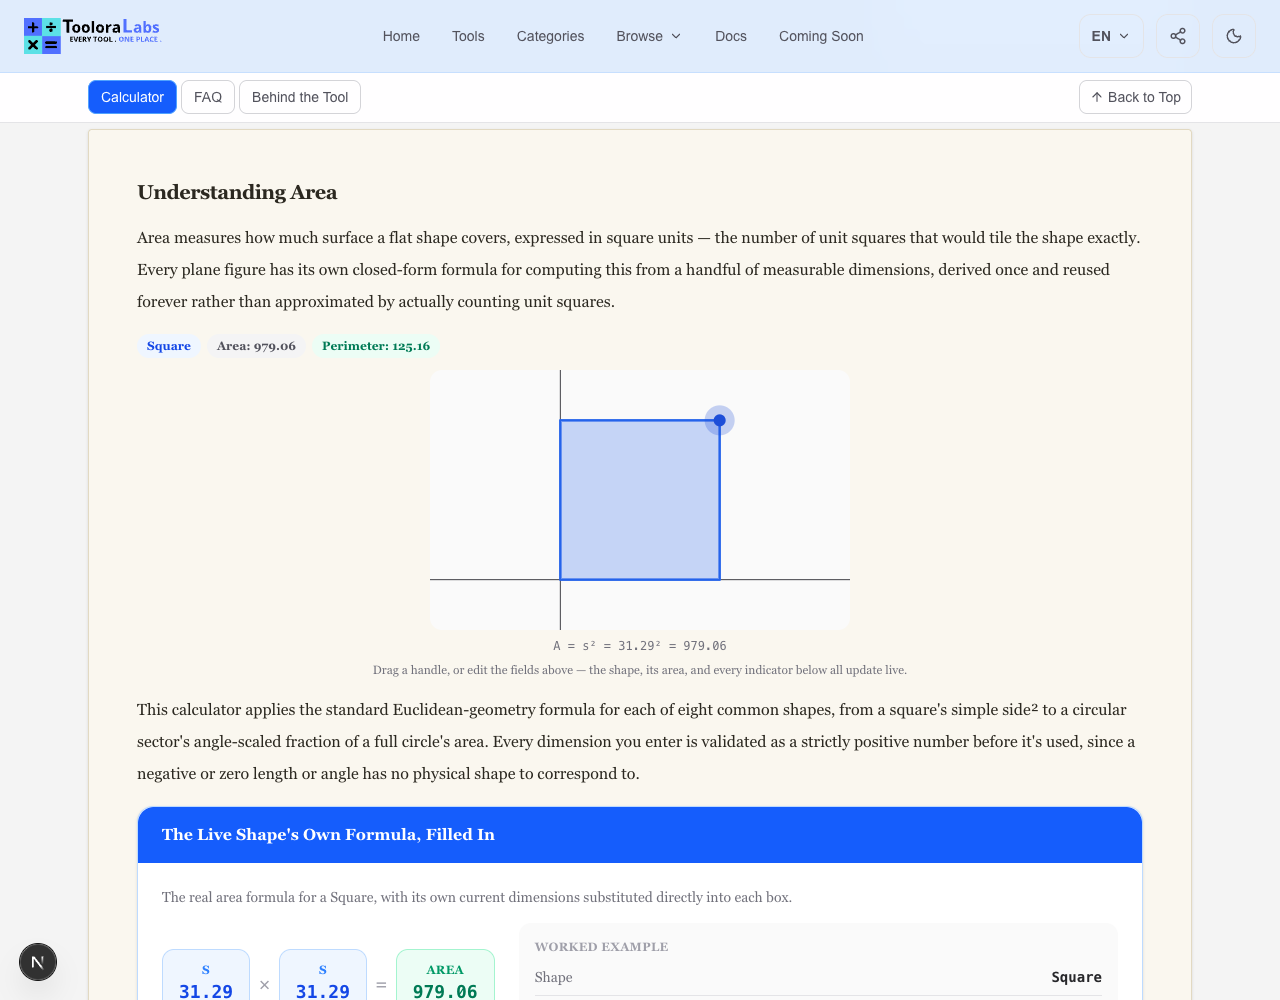
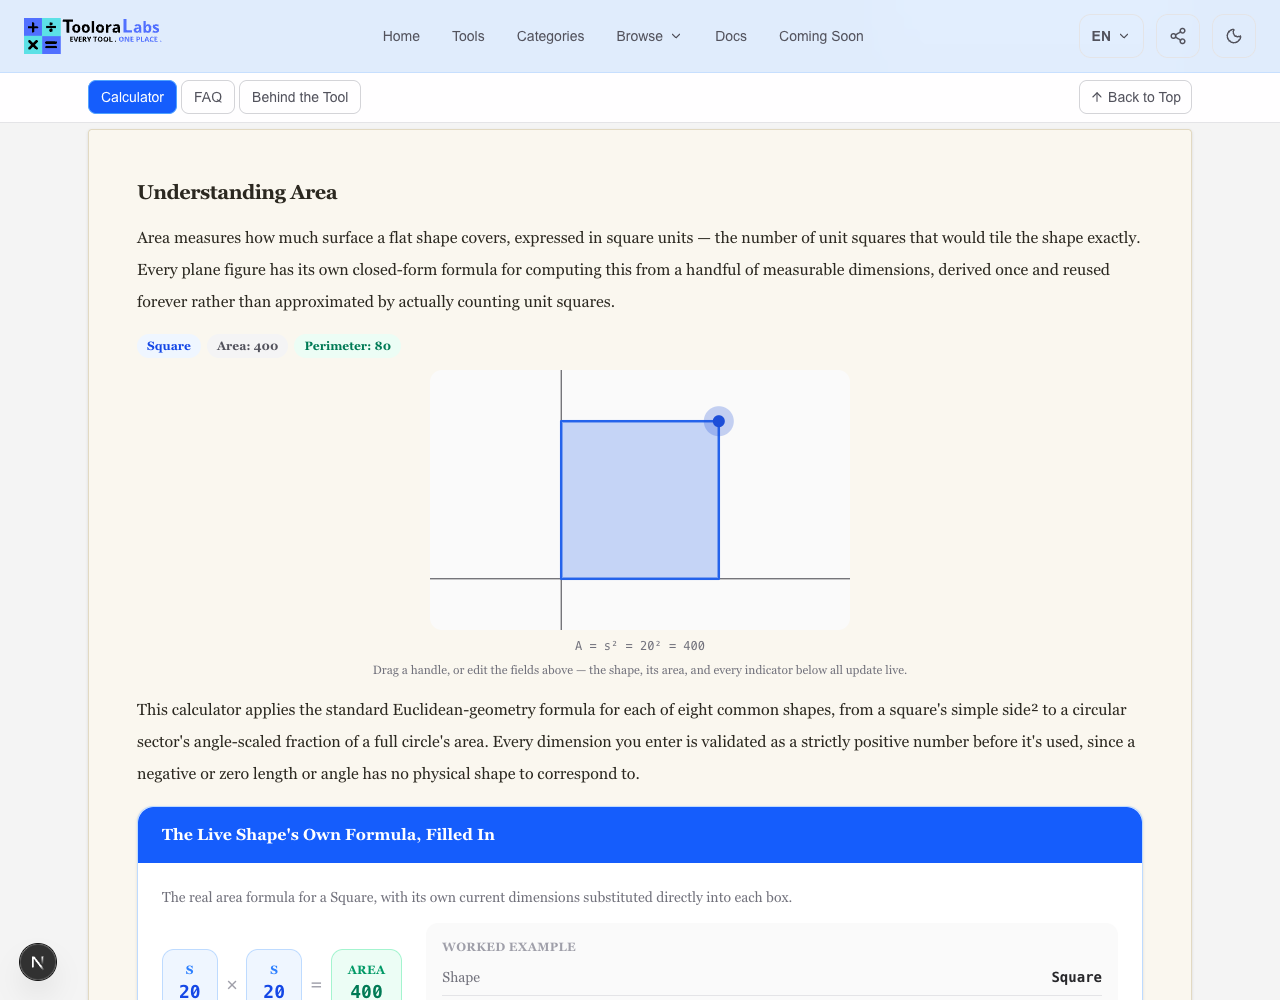
fix(area-calculator): bound hero drag handles to stop a runaway viewBox feedback loop
The Mafs viewBox is re-derived every render from the same live dimension a
drag handle controls. With no upper bound on the constrain functions, a
single ordinary drag gesture could spiral: the viewBox re-expands mid-drag,
which rescales how far a constant screen-pixel delta maps in Mafs coordinate
space, compounding across the many mousemove-driven renders of one gesture
into an absurd final value (observed: a 226px diagonal drag pushed a
square's side from 4 to 1679.97). Found while reviewing the post-drag
screenshot, not a hypothetical. Clamped every shape's draggable dimension to
a sane maximum (generous for real exploration, far short of runaway) — the
same class of fix now also applied to surface-area-calculator's hero before
its first commit. Re-verified the dynamism and gaps tests still pass and
recaptured the screenshots that showed the bug.

Claude-Session: https://claude.ai/code/session_0144AFRAUtGLwXCU9rnJHFc2

diff --git a/apps/web/components/tools/area-calculator/AreaShapeDrag.tsx b/apps/web/components/tools/area-calculator/AreaShapeDrag.tsx
@@ -55,22 +55,32 @@ function pointBFromDims(shape: AreaShape, n: AreaNumericDims): Vector2 {
   }
 }
 
+// Upper bounds matter, not just the lower MIN_DIM one: the Mafs viewBox itself is re-derived
+// from these same live dimensions every render (see viewBoxFor), so an unbounded drag can set up
+// a runaway feedback loop — the viewBox keeps re-expanding mid-drag, which keeps re-scaling how
+// far a constant screen-pixel delta maps in Mafs coordinate space, compounding across the many
+// mousemove-driven renders of a single drag gesture into an absurd final value from a perfectly
+// ordinary mouse movement. Clamping every draggable dimension to a sane maximum (generous enough
+// for real exploration, far short of runaway) bounds the viewBox growth and keeps the gesture
+// feeling proportional. Found via a real drag during screenshot capture, not a hypothetical.
+const MAX_DIM = 20;
+
 function constrainA(shape: AreaShape) {
   return (p: Vector2): Vector2 => {
     switch (shape) {
       case "square": {
-        const v = Math.max(MIN_DIM, p[0]);
+        const v = Math.min(MAX_DIM, Math.max(MIN_DIM, p[0]));
         return [v, v];
       }
       case "rectangle":
-        return [Math.max(MIN_DIM, p[0]), Math.max(MIN_DIM, p[1])];
+        return [Math.min(MAX_DIM, Math.max(MIN_DIM, p[0])), Math.min(MAX_DIM, Math.max(MIN_DIM, p[1]))];
       case "triangle":
       case "parallelogram":
       case "circle":
       case "ellipse":
-        return [Math.max(MIN_DIM, p[0]), 0];
+        return [Math.min(MAX_DIM, Math.max(MIN_DIM, p[0])), 0];
       case "trapezoid":
-        return [Math.max(MIN_DIM / 2, p[0]), 0];
+        return [Math.min(MAX_DIM / 2, Math.max(MIN_DIM / 2, p[0])), 0];
       case "sector": {
         const r = Math.min(Math.max(Math.hypot(p[0], p[1]), MIN_DIM), 9);
         const ang = Math.atan2(p[1], p[0]);
@@ -86,12 +96,12 @@ function constrainB(shape: AreaShape, n: AreaNumericDims) {
       case "triangle":
       case "parallelogram": {
         const fixedX = (n.base ?? 6) * 0.4;
-        return [fixedX, Math.max(MIN_DIM, p[1])];
+        return [fixedX, Math.min(MAX_DIM, Math.max(MIN_DIM, p[1]))];
       }
       case "ellipse":
-        return [0, Math.max(MIN_DIM, p[1])];
+        return [0, Math.min(MAX_DIM, Math.max(MIN_DIM, p[1]))];
       case "trapezoid":
-        return [Math.max(0, p[0]), Math.max(MIN_DIM, p[1])];
+        return [Math.min(MAX_DIM / 2, Math.max(0, p[0])), Math.min(MAX_DIM, Math.max(MIN_DIM, p[1]))];
       default:
         return p;
     }
